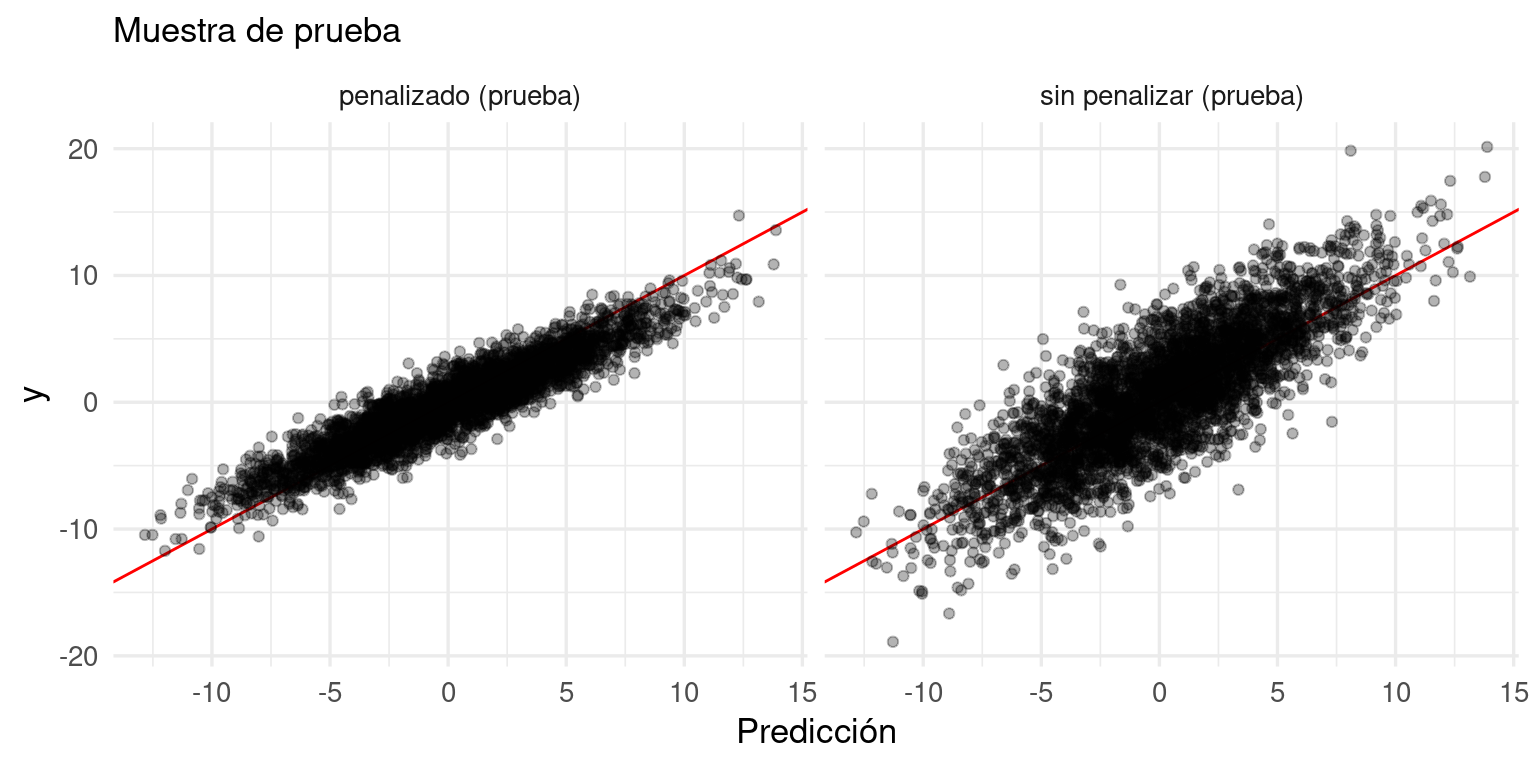
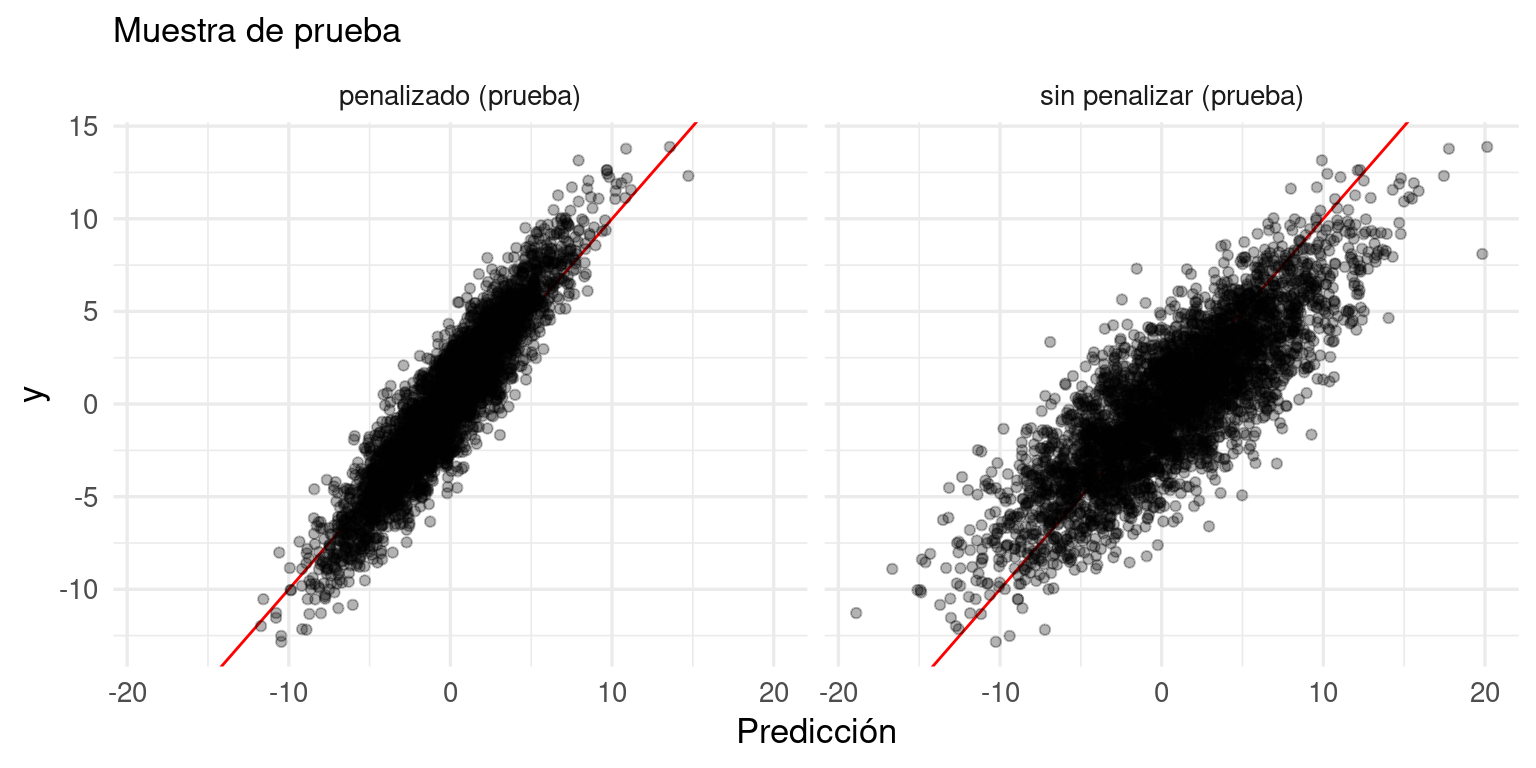
Deploying to gh-pages from @ felipegonzalez/aprendizaje-maquina-mcd-2024@d1ca5c1fbc21583b94ae7d844d535d41e7e49436 🚀

diff --git a/06-redes-neuronales-1.html b/06-redes-neuronales-1.html
@@ -577,7 +577,7 @@ Nota
 <div class="cell">
 <div class="sourceCode cell-code" id="cb25"><pre class="sourceCode r code-with-copy"><code class="sourceCode r"><span id="cb25-1"><a href="#cb25-1" aria-hidden="true" tabindex="-1"></a>dat_3 <span class="ot">&lt;-</span> <span class="fu">tibble</span>(<span class="at">x =</span> x, <span class="at">f_2 =</span> <span class="fu">predict</span>(ejemplo_mod, <span class="fu">as.matrix</span>(x, <span class="at">ncol =</span> <span class="dv">1</span>))[,<span class="dv">1</span>])</span></code><button title="Copiar al portapapeles" class="code-copy-button"><i class="bi"></i></button></pre></div>
 <div class="cell-output cell-output-stdout">
-<pre><code>2/2 - 0s - 20ms/step</code></pre>
+<pre><code>2/2 - 0s - 21ms/step</code></pre>
 </div>
 <div class="sourceCode cell-code" id="cb27"><pre class="sourceCode r code-with-copy"><code class="sourceCode r"><span id="cb27-1"><a href="#cb27-1" aria-hidden="true" tabindex="-1"></a><span class="fu">ggplot</span>(dat_3, <span class="fu">aes</span>(<span class="at">x =</span> x, <span class="at">y =</span> f_2)) <span class="sc">+</span> <span class="fu">geom_line</span>()<span class="sc">+</span></span>
 <span id="cb27-2"><a href="#cb27-2" aria-hidden="true" tabindex="-1"></a><span class="fu">geom_line</span>(<span class="at">data =</span> dat_f, <span class="fu">aes</span>(<span class="at">x =</span> x, <span class="at">y =</span> f), <span class="at">col=</span><span class="st">'red'</span>) <span class="sc">+</span></span>
@@ -730,7 +730,7 @@ Coefficients:
 <div class="cell">
 <div class="sourceCode cell-code" id="cb42"><pre class="sourceCode r code-with-copy"><code class="sourceCode r"><span id="cb42-1"><a href="#cb42-1" aria-hidden="true" tabindex="-1"></a>preds_ent <span class="ot">&lt;-</span> <span class="fu">predict</span>(mod_inter, dat_ent <span class="sc">|&gt;</span> <span class="fu">select</span>(x1, x2) <span class="sc">|&gt;</span> <span class="fu">as.matrix</span>())</span></code><button title="Copiar al portapapeles" class="code-copy-button"><i class="bi"></i></button></pre></div>
 <div class="cell-output cell-output-stdout">
-<pre><code>63/63 - 0s - 699us/step</code></pre>
+<pre><code>63/63 - 0s - 721us/step</code></pre>
 </div>
 <div class="sourceCode cell-code" id="cb44"><pre class="sourceCode r code-with-copy"><code class="sourceCode r"><span id="cb44-1"><a href="#cb44-1" aria-hidden="true" tabindex="-1"></a><span class="fu">tibble</span>(<span class="at">pred =</span> preds_ent[,<span class="dv">1</span>], <span class="at">f =</span> dat_ent<span class="sc">$</span>y) <span class="sc">|&gt;</span> </span>
 <span id="cb44-2"><a href="#cb44-2" aria-hidden="true" tabindex="-1"></a>  <span class="fu">ggplot</span>(<span class="fu">aes</span>(<span class="at">x =</span> pred, <span class="at">y =</span> f)) <span class="sc">+</span></span>
@@ -761,7 +761,7 @@ Coefficients:
 <span id="cb46-3"><a href="#cb46-3" aria-hidden="true" tabindex="-1"></a>    <span class="at">outputs =</span> <span class="fu">get_layer</span>(mod_inter, <span class="st">"capa_intermedia"</span>)<span class="sc">$</span>output)</span>
 <span id="cb46-4"><a href="#cb46-4" aria-hidden="true" tabindex="-1"></a>pred_mat <span class="ot">&lt;-</span> <span class="fu">predict</span>(capa_1, mat_entrada) <span class="sc">|&gt;</span> <span class="fu">round</span>(<span class="dv">2</span>)</span></code><button title="Copiar al portapapeles" class="code-copy-button"><i class="bi"></i></button></pre></div>
 <div class="cell-output cell-output-stdout">
-<pre><code>1/1 - 0s - 23ms/step</code></pre>
+<pre><code>1/1 - 0s - 22ms/step</code></pre>
 </div>
 <div class="sourceCode cell-code" id="cb48"><pre class="sourceCode r code-with-copy"><code class="sourceCode r"><span id="cb48-1"><a href="#cb48-1" aria-hidden="true" tabindex="-1"></a><span class="fu">rownames</span>(pred_mat) <span class="ot">&lt;-</span> <span class="fu">c</span>(<span class="st">"apagadas"</span>, <span class="st">"segunda"</span>, <span class="st">"primera"</span>, <span class="st">"ambas"</span>)</span>
 <span id="cb48-2"><a href="#cb48-2" aria-hidden="true" tabindex="-1"></a>pred_mat</span></code><button title="Copiar al portapapeles" class="code-copy-button"><i class="bi"></i></button></pre></div>
@@ -1252,7 +1252,7 @@ Ajuste de redes neuronales
 <div class="cell">
 <div class="sourceCode cell-code" id="cb69"><pre class="sourceCode r code-with-copy"><code class="sourceCode r"><span id="cb69-1"><a href="#cb69-1" aria-hidden="true" tabindex="-1"></a>preds_2 <span class="ot">&lt;-</span> <span class="fu">predict</span>(modelo_red_2, x_grasa_pr) </span></code><button title="Copiar al portapapeles" class="code-copy-button"><i class="bi"></i></button></pre></div>
 <div class="cell-output cell-output-stdout">
-<pre><code>4/4 - 0s - 12ms/step</code></pre>
+<pre><code>4/4 - 0s - 13ms/step</code></pre>
 </div>
 <div class="sourceCode cell-code" id="cb71"><pre class="sourceCode r code-with-copy"><code class="sourceCode r"><span id="cb71-1"><a href="#cb71-1" aria-hidden="true" tabindex="-1"></a>g_2 <span class="ot">&lt;-</span> <span class="fu">tibble</span>(<span class="at">preds_2 =</span> preds_2[, <span class="dv">1</span>], <span class="at">y =</span> y_grasa_pr) <span class="sc">|&gt;</span> </span>
 <span id="cb71-2"><a href="#cb71-2" aria-hidden="true" tabindex="-1"></a>  <span class="fu">ggplot</span>(<span class="fu">aes</span>(<span class="at">x =</span> preds_2, <span class="at">y =</span> y)) <span class="sc">+</span> </span>

diff --git a/05-regularizacion-1.html b/05-regularizacion-1.html
@@ -500,7 +500,7 @@ Attaching package: 'Matrix'</code></pre>
 </div>
 <p>Los nuevos coeficientes estimados tienen menor variación, y están más cercanos a los valores reales:</p>
 <div class="cell">
-<div class="sourceCode cell-code" id="cb20"><pre class="sourceCode r code-with-copy"><code class="sourceCode r"><span id="cb20-1"><a href="#cb20-1" aria-hidden="true" tabindex="-1"></a><span class="fu">qplot</span>(coefs_1<span class="sc">$</span>valor[<span class="sc">-</span><span class="dv">1</span>], coefs_penalizado<span class="sc">$</span>estimate[<span class="sc">-</span><span class="dv">1</span>]) <span class="sc">+</span> </span>
+<div class="sourceCode cell-code" id="cb20"><pre class="sourceCode r code-with-copy"><code class="sourceCode r"><span id="cb20-1"><a href="#cb20-1" aria-hidden="true" tabindex="-1"></a><span class="fu">qplot</span>(<span class="at">x =</span> beta<span class="sc">$</span>valor, coefs_penalizado<span class="sc">$</span>estimate[<span class="sc">-</span><span class="dv">1</span>]) <span class="sc">+</span> </span>
 <span id="cb20-2"><a href="#cb20-2" aria-hidden="true" tabindex="-1"></a>  <span class="fu">xlab</span>(<span class="st">'Coeficientes'</span>) <span class="sc">+</span> </span>
 <span id="cb20-3"><a href="#cb20-3" aria-hidden="true" tabindex="-1"></a>  <span class="fu">ylab</span>(<span class="st">'Coeficientes estimados'</span>) <span class="sc">+</span></span>
 <span id="cb20-4"><a href="#cb20-4" aria-hidden="true" tabindex="-1"></a>  <span class="fu">geom_abline</span>()</span></code><button title="Copiar al portapapeles" class="code-copy-button"><i class="bi"></i></button></pre></div>
@@ -518,7 +518,7 @@ Attaching package: 'Matrix'</code></pre>
 <span id="cb21-3"><a href="#cb21-3" aria-hidden="true" tabindex="-1"></a>preds_prueba_ambas <span class="ot">&lt;-</span> <span class="fu">bind_rows</span>(</span>
 <span id="cb21-4"><a href="#cb21-4" aria-hidden="true" tabindex="-1"></a>          preds_prueba <span class="sc">|&gt;</span> <span class="fu">mutate</span>(<span class="at">tipo =</span> <span class="st">"sin penalizar (prueba)"</span>),</span>
 <span id="cb21-5"><a href="#cb21-5" aria-hidden="true" tabindex="-1"></a>          preds_prueba_2 <span class="sc">|&gt;</span> <span class="fu">mutate</span>(<span class="at">tipo =</span> <span class="st">"penalizado (prueba)"</span>))</span>
-<span id="cb21-6"><a href="#cb21-6" aria-hidden="true" tabindex="-1"></a><span class="fu">ggplot</span>(preds_prueba_ambas, <span class="fu">aes</span>(<span class="at">x =</span> y, <span class="at">y =</span> .pred)) <span class="sc">+</span></span>
+<span id="cb21-6"><a href="#cb21-6" aria-hidden="true" tabindex="-1"></a><span class="fu">ggplot</span>(preds_prueba_ambas, <span class="fu">aes</span>(<span class="at">x =</span> .pred, <span class="at">y =</span> y)) <span class="sc">+</span></span>
 <span id="cb21-7"><a href="#cb21-7" aria-hidden="true" tabindex="-1"></a>  <span class="fu">geom_abline</span>(<span class="at">colour =</span> <span class="st">"red"</span>) <span class="sc">+</span></span>
 <span id="cb21-8"><a href="#cb21-8" aria-hidden="true" tabindex="-1"></a>  <span class="fu">geom_point</span>(<span class="at">alpha =</span> <span class="fl">0.3</span>) <span class="sc">+</span> </span>
 <span id="cb21-9"><a href="#cb21-9" aria-hidden="true" tabindex="-1"></a>  <span class="fu">xlab</span>(<span class="st">"Predicción"</span>) <span class="sc">+</span> <span class="fu">ylab</span>(<span class="st">"y"</span>) <span class="sc">+</span></span>

diff --git a/01-introduccion.html b/01-introduccion.html
@@ -511,7 +511,7 @@ window.Quarto = {
 <div class="cell">
 <div class="sourceCode cell-code" id="cb13"><pre class="sourceCode r code-with-copy"><code class="sourceCode r"><span id="cb13-1"><a href="#cb13-1" aria-hidden="true" tabindex="-1"></a>preds <span class="ot">&lt;-</span> <span class="fu">predict</span>(modelo, x[<span class="sc">-</span>indices_entrena,,,])</span></code><button title="Copiar al portapapeles" class="code-copy-button"><i class="bi"></i></button></pre></div>
 <div class="cell-output cell-output-stdout">
-<pre><code>23/23 - 1s - 22ms/step</code></pre>
+<pre><code>23/23 - 1s - 23ms/step</code></pre>
 </div>
 <div class="sourceCode cell-code" id="cb15"><pre class="sourceCode r code-with-copy"><code class="sourceCode r"><span id="cb15-1"><a href="#cb15-1" aria-hidden="true" tabindex="-1"></a>preds_tbl <span class="ot">&lt;-</span> <span class="fu">tibble</span>(<span class="at">y =</span> y_imagenes[<span class="sc">-</span><span class="fu">c</span>(indices_entrena)] <span class="sc">/</span> <span class="dv">10</span>, <span class="at">preds =</span> preds)</span>
 <span id="cb15-2"><a href="#cb15-2" aria-hidden="true" tabindex="-1"></a><span class="fu">ggplot</span>(preds_tbl, <span class="fu">aes</span>(<span class="at">x =</span> preds, <span class="at">y =</span> y)) <span class="sc">+</span></span>

diff --git a/82-apendice-descenso-estocastico.html b/82-apendice-descenso-estocastico.html
@@ -840,13 +840,13 @@ Descenso estocástico con momento
 <div class="sourceCode cell-code" id="cb28"><pre class="sourceCode r code-with-copy"><code class="sourceCode r"><span id="cb28-1"><a href="#cb28-1" aria-hidden="true" tabindex="-1"></a><span class="fu">get_weights</span>(modelo)</span></code><button title="Copiar al portapapeles" class="code-copy-button"><i class="bi"></i></button></pre></div>
 <div class="cell-output cell-output-stdout">
 <pre><code>[[1]]
-            [,1]
-[1,] -2.38645887
-[2,] -0.19002876
-[3,]  0.03883293
+           [,1]
+[1,] -2.5382910
+[2,] -0.1164150
+[3,]  0.1237006
 
 [[2]]
-[1] -0.2296938</code></pre>
+[1] -0.4505695</code></pre>
 </div>
 </div>
 <p>Y verificamos que concuerda con la salida de <em>lm</em>:</p>

diff --git a/81-apendice-descenso.html b/81-apendice-descenso.html
@@ -830,7 +830,7 @@ Tip
 <div class="cell-output cell-output-stdout">
 <pre><code>[[1]]
             [,1]
-[1,] -0.22045916
+[1,] -0.22045918
 [2,]  0.23149671
 [3,]  0.09673478
 
@@ -850,8 +850,8 @@ Tip
 <pre><code>[[1]]
              [,1]
 [1,] 0.0079817399
-[2,] 0.0019486140
-[3,] 0.0005532746
+[2,] 0.0019486141
+[3,] 0.0005532745
 
 [[2]]
 [1] 0.0003491883</code></pre>
